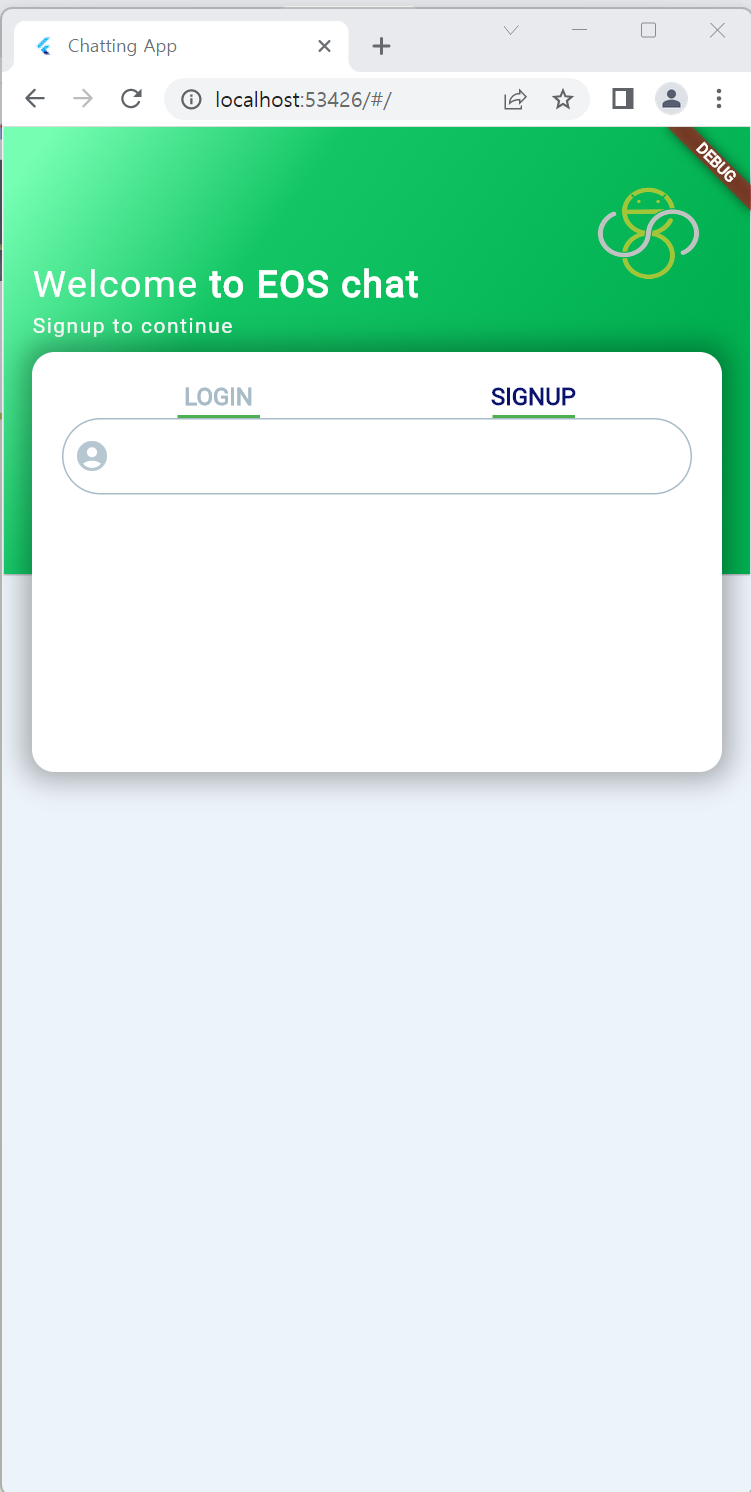
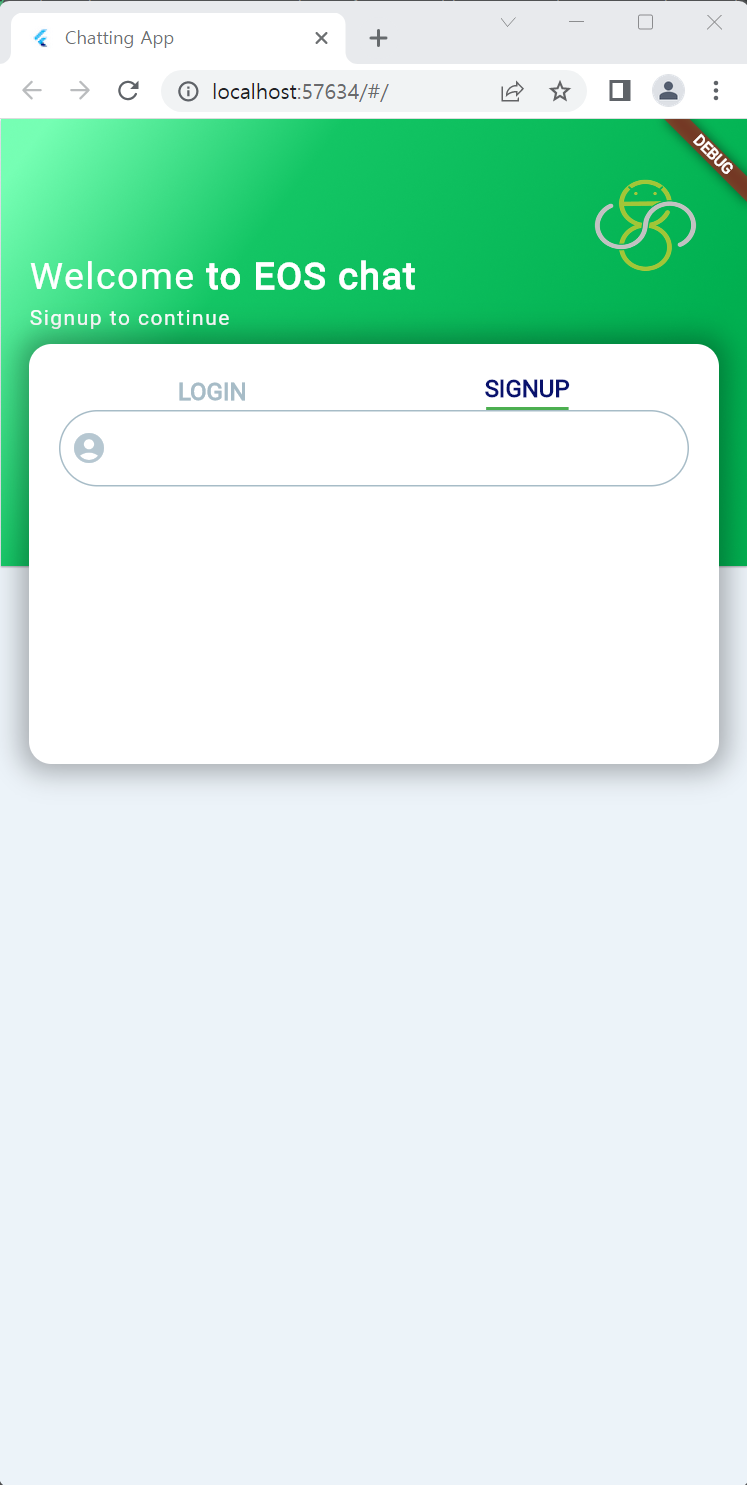
week2

diff --git a/lib/screens/main_screen.dart b/lib/screens/main_screen.dart
@@ -1,3 +1,4 @@
+import 'package:flutter/gestures.dart';
 import 'package:flutter/material.dart';
 import '../config/palette.dart';
 
@@ -11,21 +12,22 @@ class LoginSignUpScreen extends StatefulWidget {
 class _LoginSignUpScreenState extends State<LoginSignUpScreen> {
   bool isSignupScreen = true;
 
-    @override
-    Widget build(BuildContext context) {
-      return Scaffold(
+  @override
+  Widget build(BuildContext context) {
+    return Scaffold(
         backgroundColor: Palette.backgroundColor,
         body: Stack(
           children: [
             Positioned(
-              top: 0, left: 0, right: 0,
+              top: 0,
+              left: 0,
+              right: 0,
               child: Container(
                 height: 300,
                 decoration: const BoxDecoration(
                   image: DecorationImage(
-                    image: AssetImage('assets/background.png'),
-                    fit: BoxFit.fill
-                  ),
+                      image: AssetImage('assets/background.png'),
+                      fit: BoxFit.fill),
                 ),
                 child: Container(
                   padding: EdgeInsets.only(top: 90, left: 20),
@@ -37,26 +39,26 @@ class _LoginSignUpScreenState extends State<LoginSignUpScreen> {
                         text: TextSpan(
                             text: 'Welcome ',
                             style: TextStyle(
-                                letterSpacing: 1.0, fontSize: 25, color: Colors.white
-                            ),
+                                letterSpacing: 1.0,
+                                fontSize: 25,
+                                color: Colors.white),
                             children: [
                               TextSpan(
                                   text: 'to EOS chat',
                                   style: TextStyle(
-                                      letterSpacing: 1.0, fontSize: 25, color: Colors.white, fontWeight: FontWeight.bold
-                                  )
-                              )
-                            ]
-                        ),
+                                      letterSpacing: 1.0,
+                                      fontSize: 25,
+                                      color: Colors.white,
+                                      fontWeight: FontWeight.bold))
+                            ]),
                       ),
                       SizedBox(
                         height: 5.0,
                       ),
                       Text(
                         'Signup to continue',
-                        style: TextStyle(
-                          letterSpacing: 1.0, color: Colors.white
-                        ),
+                        style:
+                            TextStyle(letterSpacing: 1.0, color: Colors.white),
                       )
                     ],
                   ),
@@ -71,16 +73,14 @@ class _LoginSignUpScreenState extends State<LoginSignUpScreen> {
                 width: MediaQuery.of(context).size.width - 40,
                 margin: EdgeInsets.only(left: 20, right: 20),
                 decoration: BoxDecoration(
-                  color: Colors.white,
-                  borderRadius: BorderRadius.all(Radius.circular(15)),
-                  boxShadow: [
-                    BoxShadow(
-                      color: Colors.black.withOpacity(0.3),
-                      blurRadius: 15,
-                      spreadRadius: 5
-                    )
-                  ]
-                ),
+                    color: Colors.white,
+                    borderRadius: BorderRadius.all(Radius.circular(15)),
+                    boxShadow: [
+                      BoxShadow(
+                          color: Colors.black.withOpacity(0.3),
+                          blurRadius: 15,
+                          spreadRadius: 5)
+                    ]),
                 child: Column(
                   children: [
                     Row(
@@ -92,16 +92,19 @@ class _LoginSignUpScreenState extends State<LoginSignUpScreen> {
                               Text(
                                 'LOGIN',
                                 style: TextStyle(
-                                  fontSize: 16, fontWeight: FontWeight.bold,
-                                  color: Palette.textColor1
-                                ),
+                                    fontSize: 16,
+                                    fontWeight: FontWeight.bold,
+                                    color: !isSignupScreen
+                                        ? Palette.activeColor
+                                        : Palette.textColor1),
                               ),
-                              Container(
-                                margin: EdgeInsets.only(top: 3),
-                                height: 2,
-                                width: 55,
-                                color: Colors.green,
-                              )
+                              if (!isSignupScreen)
+                                Container(
+                                  margin: EdgeInsets.only(top: 3),
+                                  height: 2,
+                                  width: 55,
+                                  color: Colors.green,
+                                )
                             ],
                           ),
                         ),
@@ -111,16 +114,19 @@ class _LoginSignUpScreenState extends State<LoginSignUpScreen> {
                               Text(
                                 'SIGNUP',
                                 style: TextStyle(
-                                  fontSize: 16, fontWeight: FontWeight.bold,
-                                  color: Palette.activeColor
-                                ),
+                                    fontSize: 16,
+                                    fontWeight: FontWeight.bold,
+                                    color: isSignupScreen
+                                        ? Palette.activeColor
+                                        : Palette.textColor1),
                               ),
-                              Container(
-                                margin: EdgeInsets.only(top: 3),
-                                height: 2,
-                                width: 55,
-                                color: Colors.green,
-                              )
+                              if (isSignupScreen)
+                                Container(
+                                  margin: EdgeInsets.only(top: 3),
+                                  height: 2,
+                                  width: 55,
+                                  color: Colors.green,
+                                )
                             ],
                           ),
                         )
@@ -132,15 +138,20 @@ class _LoginSignUpScreenState extends State<LoginSignUpScreen> {
                           children: [
                             TextFormField(
                               decoration: InputDecoration(
-                                prefixIcon: Icon(Icons.account_circle, color: Palette.iconColor,),
+                                prefixIcon: Icon(
+                                  Icons.account_circle,
+                                  color: Palette.iconColor,
+                                ),
                                 enabledBorder: OutlineInputBorder(
-                                  borderSide: BorderSide(color: Palette.textColor1),
-                                  borderRadius: BorderRadius.all(Radius.circular(35))
-                                ),
+                                    borderSide:
+                                        BorderSide(color: Palette.textColor1),
+                                    borderRadius:
+                                        BorderRadius.all(Radius.circular(35))),
                                 focusedBorder: OutlineInputBorder(
-                                  borderSide: BorderSide(color: Palette.textColor1),
-                                  borderRadius: BorderRadius.all(Radius.circular(35))
-                                ),
+                                    borderSide:
+                                        BorderSide(color: Palette.textColor1),
+                                    borderRadius:
+                                        BorderRadius.all(Radius.circular(35))),
                               ),
                             )
                           ],
@@ -152,7 +163,6 @@ class _LoginSignUpScreenState extends State<LoginSignUpScreen> {
               ),
             )
           ],
-        )
-      );
-    }
+        ));
+  }
 }
